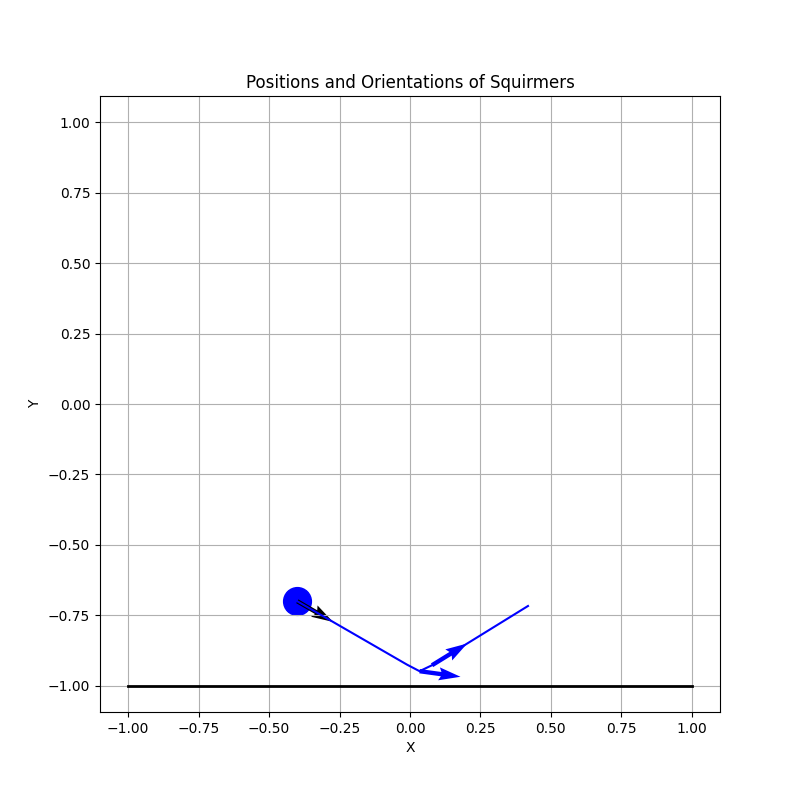
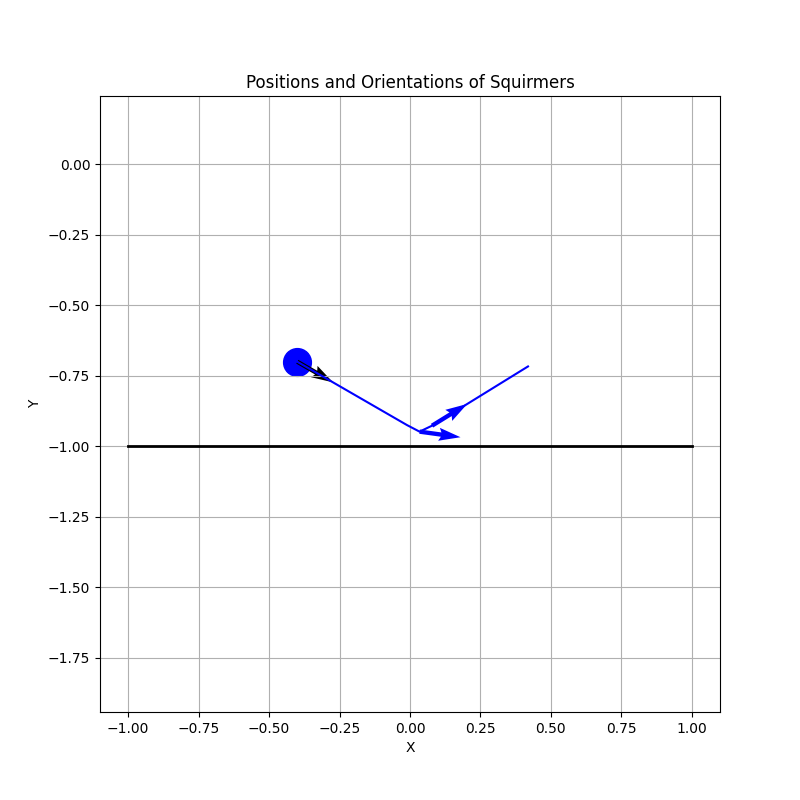
plot modified

diff --git a/Code/plot.py b/Code/plot.py
@@ -126,7 +126,8 @@ def plot_sim_nsquirmers(histories, R, N, a, border, sim_border, filename, dir='g
         plt.scatter(xs[i], ys[i], color=colors[i], s=s)
         plt.quiver(xs[i], ys[i], np.cos(orientations[i]), np.sin(orientations[i]), color='black', scale=scale_arrow, width=w)
 
-    plt.scatter([-R, R], [-R, R], color='white', alpha=0)
+    if sim_border != True:
+        plt.scatter([-R, R], [-R, R], color='white', alpha=0)
 
     plt.axis('equal')
     plt.xlabel('X')
